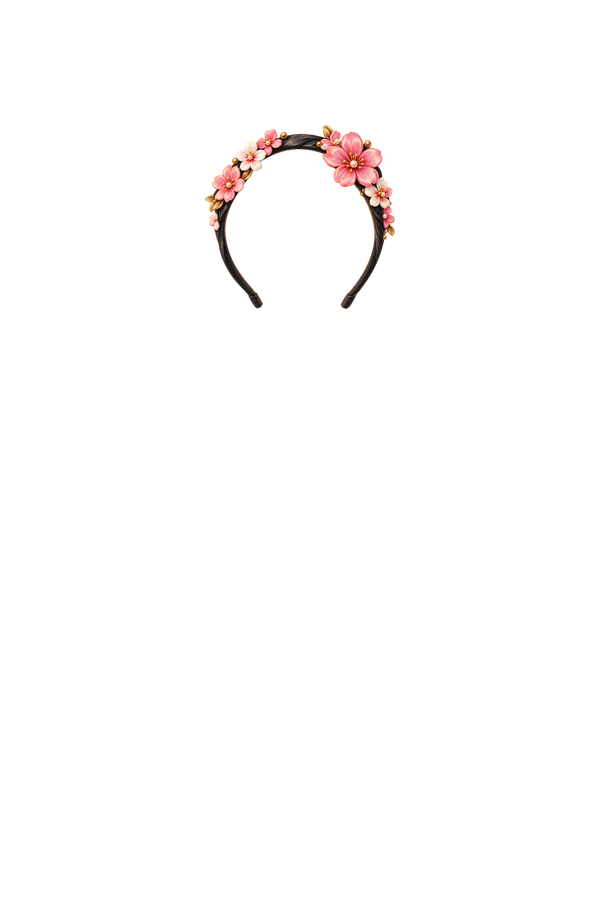
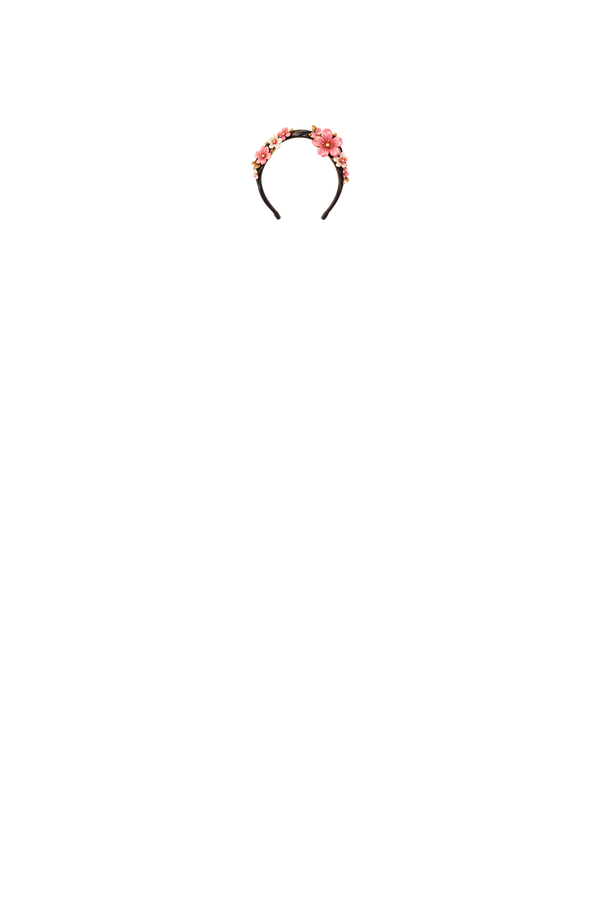
Shrink oversized headband/skirts, start bare, fix mobile drawer scrollbar
floral-headband was generated as an off-head product shot (full arch
+ two long prongs), so at full size it read as a giant floating ring
above the head. navy-pleated-skirt/play-skirt were ~35% wider than
travel-jeans at the same waistline. Rescaled all three down, anchored
at their existing position (scripts/fix-headband-skirt-scale.mjs).

Doll now starts with no outer layer (picks.layers defaults to 'none'
instead of 'rain') so the builder opens on a blank base outfit instead
of a preset one — matches how clearLook/destination-select already
default an outer layer.

Mobile item-row drawers relied on the native overflow-x scrollbar,
which iOS/Android hide by default during non-scroll, giving no visual
hint the row scrolls. Added a themed scrollbar track/thumb plus a
persistent right-edge fade (::after on the drawer body, scoped with
:has(.little-item-row)) as a scroll-position-independent affordance.

Changed region(s): [[0.33, 0.1244, 0.66, 0.3422], [0.57, 0.3111, 0.6, 0.3422]]

diff --git a/src/little-jetter.css b/src/little-jetter.css
@@ -307,7 +307,7 @@
 .little-doll-destination{z-index:1!important}.little-doll-destination>img{position:absolute;z-index:0;inset:0;width:100%;height:100%;display:block;object-fit:cover;object-position:center}.little-doll-destination.scene-tokyo{background:#dff4f1}.little-doll-stage::after{z-index:2}.little-doll-stage .little-aligned-doll{z-index:3}
 @media(max-width:680px){.little-doll-destination{display:block!important;inset:4px!important;opacity:1!important;border-radius:42% 42% 20px 20px}.little-doll-destination>img{min-width:100%;min-height:100%}}
 .little-look-actions{display:flex!important;flex-wrap:wrap;justify-content:flex-end;gap:6px}.little-look-actions button{min-height:44px!important;animation:none!important}.little-look-actions button:nth-child(2){background:#fff8e8;color:#173a47;border:1px solid rgba(255,255,255,.5)}.little-look-actions button:nth-child(3){background:#e85849;color:white}.little-color-swatches{display:flex!important;align-items:center;gap:8px;padding:9px 2px 2px}.little-color-swatches small{margin-right:auto;font-size:8px;text-transform:uppercase;letter-spacing:.08em;color:#6c7778}.little-color-swatches button{width:34px;height:34px;min-height:34px;border-radius:50%;border:3px solid white;background:var(--swatch);box-shadow:0 0 0 1px rgba(23,58,71,.22);cursor:pointer}.little-color-swatches button[aria-pressed='true']{box-shadow:0 0 0 3px #e85849;transform:scale(1.08)}.little-doll-stage.is-drop-active{box-shadow:0 0 0 5px #f4c665,0 18px 42px rgba(23,58,71,.2)!important}.little-drop-message{position:absolute;z-index:10;left:50%;bottom:16px;transform:translateX(-50%);padding:8px 13px;border-radius:999px;background:#173a47;color:white;font-size:10px;font-weight:800;white-space:nowrap;pointer-events:none}.little-my-looks>div{display:grid;grid-template-columns:repeat(2,1fr);gap:8px}.little-my-looks>div>button{min-height:52px;padding:9px;text-align:left;border:1px solid rgba(23,58,71,.18);background:#fffaf0;color:#173a47;cursor:pointer}.little-my-looks>div>button strong,.little-my-looks>div>button small{display:block}.little-my-looks>div>button small{margin-top:3px;color:#6c7778}.little-item-row button[draggable='true']{touch-action:pan-y}.little-item-row button[draggable='true']:active{cursor:grabbing;transform:scale(.97)}
-@media(max-width:680px){.little-surprise-bar{display:block!important}.little-look-actions{display:grid!important;grid-template-columns:repeat(3,1fr);margin-top:10px}.little-look-actions button{width:auto!important;padding:5px!important;font-size:8px!important}.little-dress-layout .little-item-row{display:flex!important;overflow-x:auto;scroll-snap-type:x mandatory;padding:4px 3px 12px;gap:9px}.little-dress-layout .little-item-row>button{flex:0 0 108px;scroll-snap-align:start}.little-color-swatches{flex-wrap:wrap}.little-color-swatches small{width:100%;flex-basis:100%}.little-my-looks>div{grid-template-columns:1fr}}
+@media(max-width:680px){.little-surprise-bar{display:block!important}.little-look-actions{display:grid!important;grid-template-columns:repeat(3,1fr);margin-top:10px}.little-look-actions button{width:auto!important;padding:5px!important;font-size:8px!important}.little-dress-layout .little-item-row{position:relative;display:flex!important;overflow-x:auto;scroll-snap-type:x mandatory;padding:4px 3px 16px;gap:9px;scrollbar-width:auto;scrollbar-color:var(--coral) rgba(23,58,71,.14)}.little-dress-layout .little-item-row::-webkit-scrollbar{height:7px}.little-dress-layout .little-item-row::-webkit-scrollbar-track{background:rgba(23,58,71,.14);border-radius:99px}.little-dress-layout .little-item-row::-webkit-scrollbar-thumb{background:var(--coral);border-radius:99px;border:1px solid rgba(255,255,255,.5)}.little-dress-layout .little-item-row>button{flex:0 0 108px;scroll-snap-align:start}.little-dress-layout .little-task-drawer>div:has(.little-item-row){position:relative}.little-dress-layout .little-task-drawer>div:has(.little-item-row)::after{content:'';position:absolute;z-index:2;top:4px;bottom:16px;right:0;width:28px;background:linear-gradient(90deg,transparent,#fffaf0 78%);pointer-events:none}.little-color-swatches{flex-wrap:wrap}.little-color-swatches small{width:100%;flex-basis:100%}.little-my-looks>div{grid-template-columns:1fr}}
 .little-jetter-shell [hidden]{display:none!important}.little-tab-view:not([hidden]){animation:little-tab-enter .25s ease-out both}@keyframes little-tab-enter{from{opacity:0;transform:translateY(10px)}to{opacity:1;transform:none}}.little-route{grid-template-columns:repeat(3,minmax(0,1fr))}.little-route button{appearance:none;border:0;background:transparent;color:var(--ink-soft);text-transform:uppercase;letter-spacing:.12em;font-size:9px;display:flex;align-items:center;gap:7px;cursor:pointer;text-align:left}.little-route button.is-current{width:max-content;padding:6px 12px 6px 7px;border-radius:999px;background:#e85849;color:white;font-weight:800;box-shadow:0 5px 14px rgba(232,88,73,.28)}.little-route button.is-current span{background:white;color:#e85849;border-color:white}.little-route-adventure{grid-template-columns:repeat(3,1fr);gap:8px;padding:9px}.little-route-adventure button{min-height:48px;border:1px solid rgba(23,58,71,.14);background:#fff8e8;color:#173a47;display:flex;align-items:center;justify-content:center;gap:8px;cursor:pointer;text-transform:capitalize}.little-route-adventure button span{flex:0 0 30px}.little-route-adventure button strong{font-size:11px}.little-route-adventure button.is-current{background:#e85849;color:white;border-color:#e85849;box-shadow:0 5px 14px rgba(232,88,73,.25)}.little-route-adventure button.is-current span{background:white;color:#e85849}.little-item-row button[aria-pressed='true']{box-shadow:0 0 0 4px rgba(232,88,73,.18),0 8px 18px rgba(23,58,71,.12)!important;transform:scale(1.02)}
 @media(max-width:680px){.little-route-adventure{grid-template-columns:repeat(3,1fr)!important}.little-route-adventure button{min-width:0;display:grid;grid-template-columns:1fr;place-items:center;padding:5px 2px;gap:2px}.little-route-adventure button span{width:26px;height:26px}.little-route-adventure button strong{font-size:9px}.little-tab-view:not([hidden]){animation-duration:.2s}}
 @media(prefers-reduced-motion:reduce){.little-tab-view:not([hidden]){animation:none}}

diff --git a/src/LittleJetterApp.tsx b/src/LittleJetterApp.tsx
@@ -306,7 +306,7 @@ export function LittleJetterApp() {
   const [destinationTypeFilter, setDestinationTypeFilter] = useState('All types');
   const [started, setStarted] = useState(false);
   const [gameStep, setGameStep] = useState(1);
-  const [picks, setPicks] = useState<Picks>({ tops: 'stripe', bottoms: 'travel-jeans', layers: 'rain', shoes: 'sneakers', accessories: 'crossbody', buddies: 'bunny' });
+  const [picks, setPicks] = useState<Picks>({ tops: 'stripe', bottoms: 'travel-jeans', layers: 'none', shoes: 'sneakers', accessories: 'crossbody', buddies: 'bunny' });
   const [garmentColors, setGarmentColors] = useState<GarmentColors>({});
   const [savedLooks, setSavedLooks] = useState<SavedLook[]>([]);
   const [passportStamps, setPassportStamps] = useState<string[]>([]);
